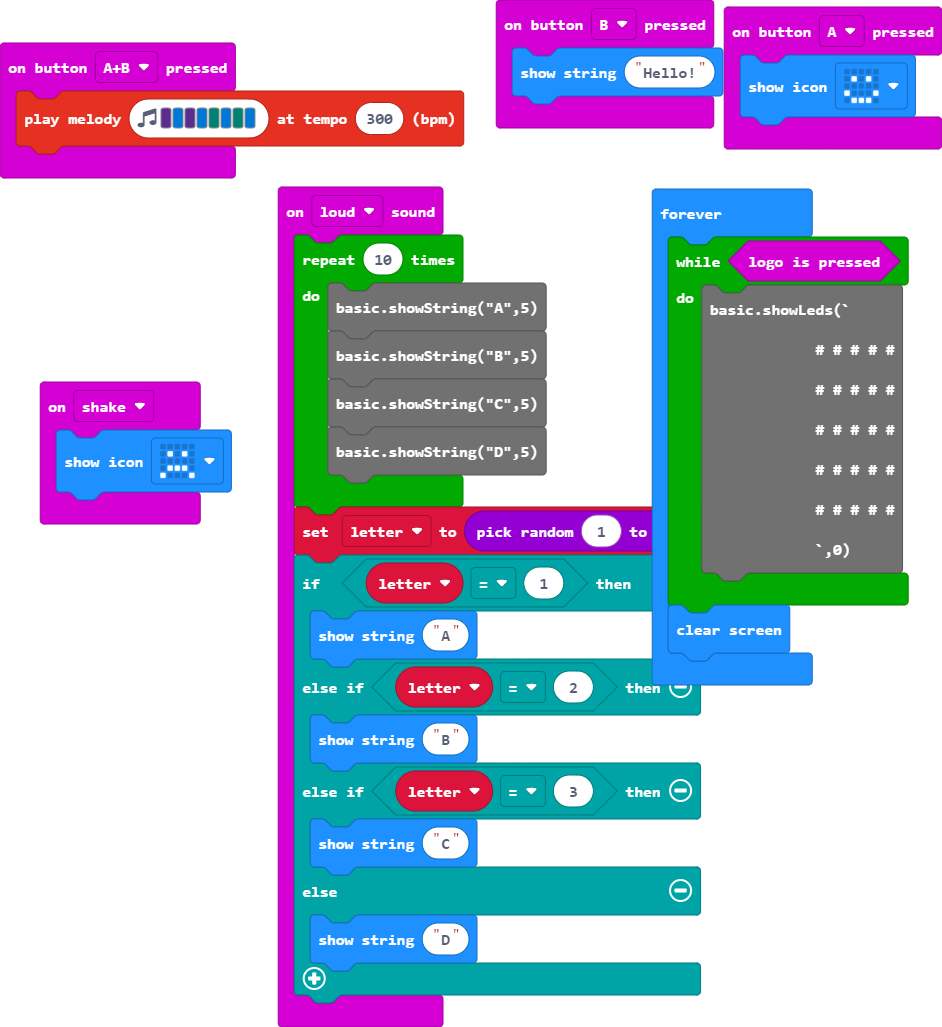
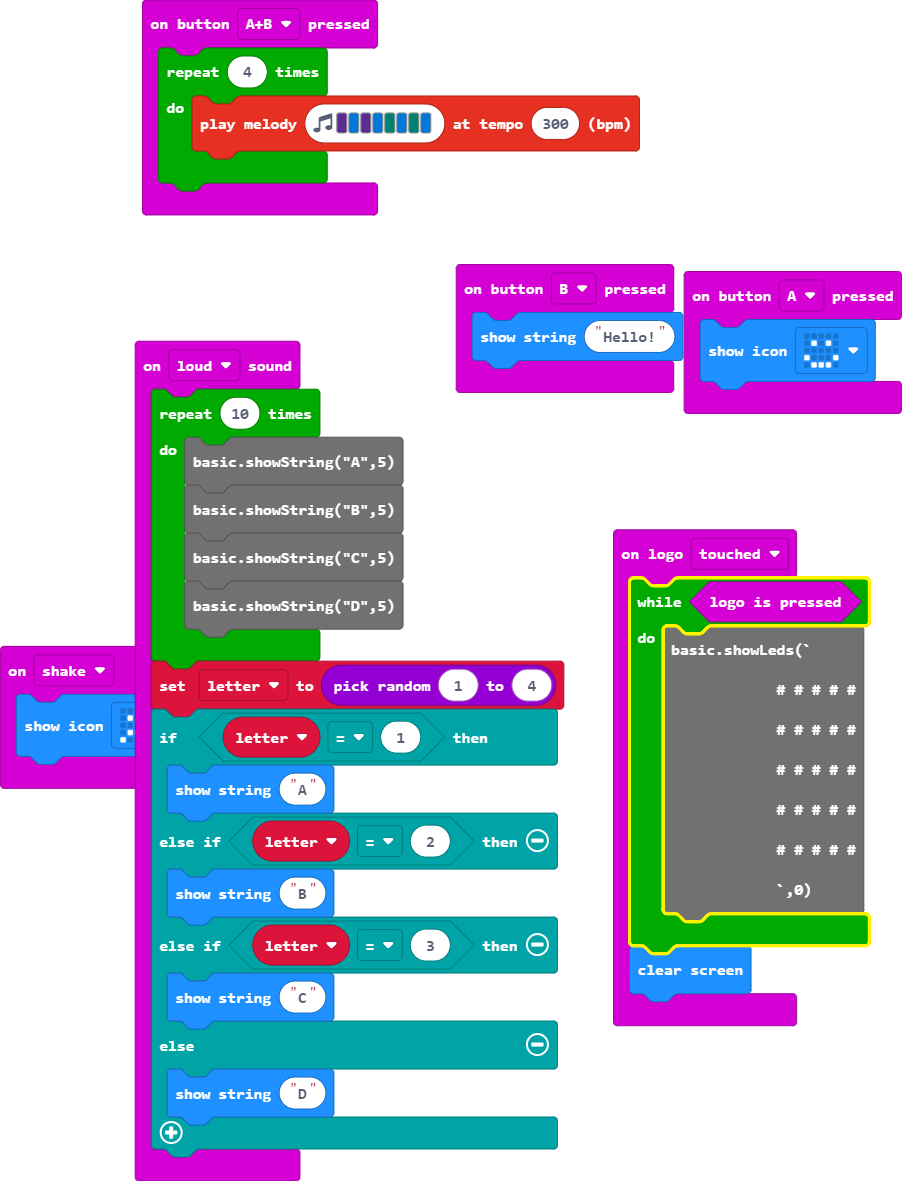
Update main.blocks, main.ts

diff --git a/main.ts b/main.ts
@@ -21,7 +21,9 @@ basic.showString("D",5)
     }
 })
 input.onButtonPressed(Button.AB, function () {
-    music.playMelody("D E D E F E F E ", 300)
+    for (let index = 0; index < 4; index++) {
+        music.playMelody("D E D E F E F E ", 300)
+    }
 })
 input.onButtonPressed(Button.B, function () {
     basic.showString("Hello!")
@@ -29,7 +31,7 @@ input.onButtonPressed(Button.B, function () {
 input.onGesture(Gesture.Shake, function () {
     basic.showIcon(IconNames.Sad)
 })
-basic.forever(function () {
+input.onLogoEvent(TouchButtonEvent.Touched, function () {
     while (input.logoIsPressed()) {
         basic.showLeds(`
             # # # # #
